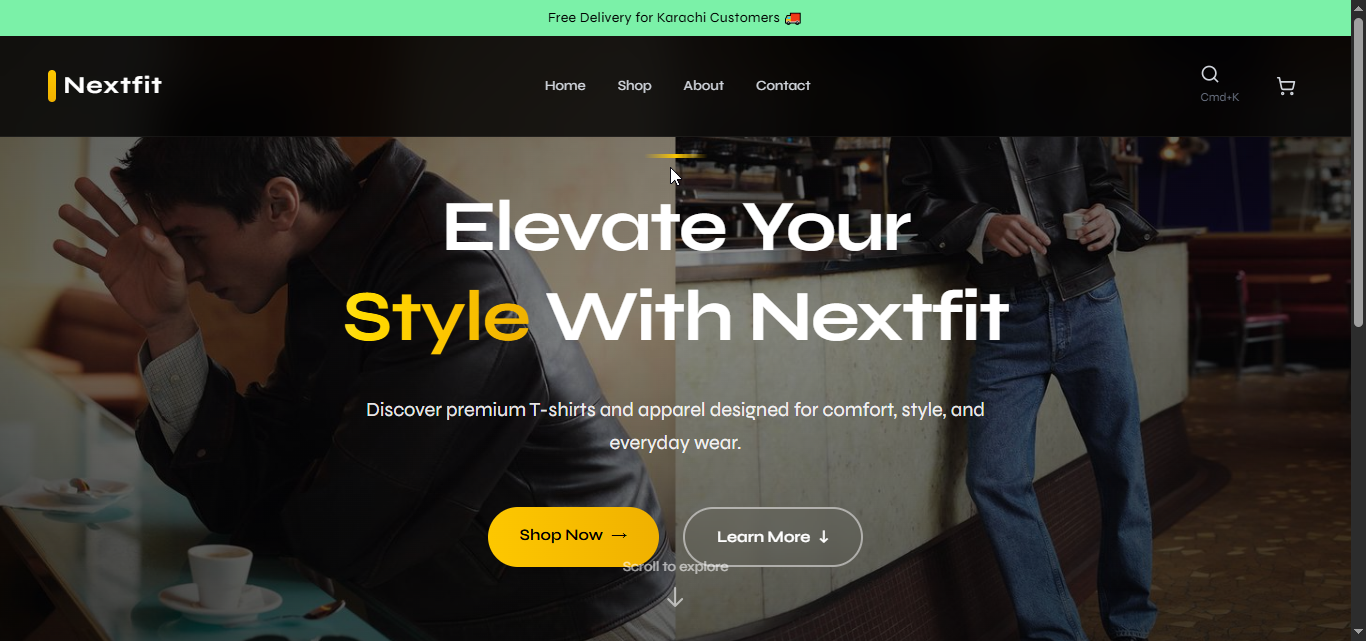
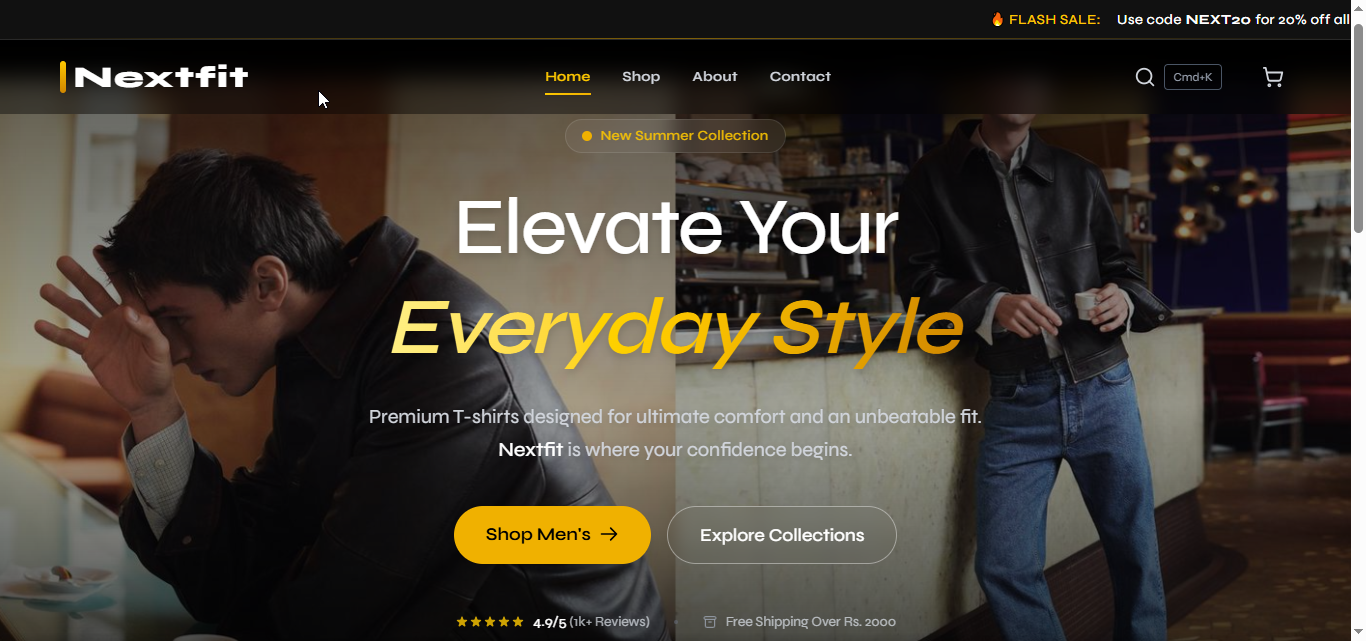
The added the new projects and make it smoth

diff --git a/client/src/pages/Projects.jsx b/client/src/pages/Projects.jsx
@@ -23,11 +23,24 @@ import Todo_Auth from "../assets/Todo_Auth.png";
 import Tshirt from "../assets/T-shirt_store.png";
 import ajrealestate from "../assets/ajrealestate.png";
 import GlobalComputer from "../assets/GlobalComputer.png";
+import LinkedIn_Clone from "../assets/LinkedIn_Clone.png";
 
 const projectsData = {
   fullstack: [
-    { title: "Real Estate Website (AJ)", desc: "A premium real estate platform for property listings.", link: "https://ajrealestate.pk/", image: ajrealestate, Github: false },
-    { title: "Nextfit E-Com", desc: "MERN Stack T-shirt store with admin dashboard.", link: "https://nextfit-seven.vercel.app/", image: Tshirt, Github: "https://github.com/Arbazali0347/Nextfit" },
+    {
+      title: "Real Estate Website (AJ)",
+      desc: "A premium real estate platform for property listings.",
+      link: "https://ajrealestate.pk/",
+      image: ajrealestate,
+      Github: false
+    },
+    {
+      title: "Nextfit E-Com",
+      desc: "MERN Stack T-shirt store with admin dashboard.",
+      link: "https://nextfit-seven.vercel.app/",
+      image: Tshirt,
+      Github: "https://github.com/Arbazali0347/Nextfit"
+    },
     { title: "SaaS BG Remover", desc: "Dynamic background remover with AI integration.", link: "https://bg-remover-saas-rt79.vercel.app/", image: SaaS, Github: "https://github.com/Arbazali0347/BG-remover-SAAS" },
     { title: "E-Commerce App", desc: "Full-featured MERN store with secure checkout.", link: "https://amchemical.store", image: ECom, Github: "https://github.com/Arbazali0347/AM-E-Commerce" },
     { title: "AI Blogging Platform", desc: "Modern blogging with AI-powered content tools.", link: "https://arbaz-blog-platfrom-38rn.vercel.app/", image: Blogging, Github: "https://github.com/Arbazali0347/Arbaz-blog-platfrom" },
@@ -42,11 +55,14 @@ const projectsData = {
   react: [
     { title: "Movie Searcher", desc: "React app fetching data from OMDB API.", link: "https://react-movie-searcher-eta.vercel.app/", image: MovieSearcher, Github: "https://github.com/Arbazali0347/React-Movie-Searcher" },
     { title: "React Gallery", desc: "Visual gallery with API-driven images.", link: "https://ract-gallary-app.vercel.app/", image: React_Gallary, Github: "https://github.com/Arbazali0347/Ract_Gallary_APP" },
+    { title: "React Todo List", desc: "The todo list maker with react.", link: "https://todo-app-using-react-lyart.vercel.app/", image: React_Todo, Github: "https://github.com/Arbazali0347/Todo-App-using-React" },
     { title: "Link Shortener", desc: "Clean UI for shortening long URLs.", link: "https://link-shortner-phi-lake.vercel.app/", image: React_LinkShortner, Github: "https://github.com/Arbazali0347/Link-Shortner" },
+    { title: "The Porfolio with react", desc: "The amazing portfolio using react with tailwind", link: "https://react-my-portfolio-chi.vercel.app/", image: React_PortFolio, Github: "https://github.com/Arbazali0347/React-My-Portfolio/" },
   ],
   tailwind: [
     { title: "Dark/Light UI", desc: "Seamless theme switching interface.", link: "https://dark-and-light-ruby.vercel.app/", image: Dark, Github: "https://github.com/Arbazali0347/Dark-and-Light" },
     { title: "About UI Design", desc: "Modern About page with Glassmorphism.", link: "https://my-project-tailwind.vercel.app/", image: MyAbout, Github: "https://github.com/Arbazali0347/My-About-Project" },
+    { title: "LinkedIn Login page clone", desc: "The Same design of LinkedIn in Login page.", link: false, image: LinkedIn_Clone, Github: false },
   ],
   node: [
     { title: "Profile Auth App", desc: "Secure Node.js authentication system.", link: false, image: NodeProfile, Github: "https://github.com/Arbazali0347/Profile-Auth-Node-Express" },
@@ -55,6 +71,27 @@ const projectsData = {
   css: [
     { title: "Saqlain Clone", desc: "Pixel perfect UI clone of a portfolio.", link: "https://arbazali0347.github.io/Saqlain-website-clone/", image: Saqlain_Website_Clone, Github: "https://github.com/Arbazali0347/Saqlain-website-clone" },
     { title: "Uncrypt Messenger", desc: "Modern chat interface layout.", link: "https://arbazali0347.github.io/Text-Messanger/", image: JavaScript_messanger, Github: "https://github.com/Arbazali0347/Text-Messanger/" },
+    {
+      title: "Static E-commerce design",
+      desc: "The Amazing E-commerce design using with HTML_CSS.",
+      link: "https://arbazali0347.github.io/E-commerce-HTML-CSS/",
+      image: HTML_CSS_Ecom,
+      Github: "https://github.com/Arbazali0347/E-commerce-HTML-CSS/"
+    },
+    {
+      title: "The first Portfolio",
+      desc: "The first portfolio design using with HTML_CSS.",
+      link: "https://arbazali0347.github.io/HTML_CSS_Portfolio/",
+      image: HTML_CSS_Portfolio,
+      Github: "https://github.com/Arbazali0347/HTML_CSS_Portfolio"
+    },
+    {
+      title: "The white theme portfolio",
+      desc: "The white theme portfolio design using with HTML_CSS.",
+      link: "https://arbazali0347.github.io/Arbazali-HTML-Portfolio/",
+      image: HTML_Portfolio,
+      Github: "https://github.com/Arbazali0347/Arbazali-HTML-Portfolio/"
+    },
   ],
 };
 

diff --git a/client/src/components/Backdrop.jsx b/client/src/components/Backdrop.jsx
@@ -6,9 +6,6 @@ const Backdrop = () => {
     // Fixed background that stays behind everything (-z-50)
     <div className="fixed inset-0 w-full h-full -z-50 bg-[#050505] overflow-hidden pointer-events-none">
       
-      {/* Subtle Modern Grid Pattern */}
-      <div className="absolute inset-0 bg-[linear-gradient(to_right,#ffffff08_1px,transparent_1px),linear-gradient(to_bottom,#ffffff08_1px,transparent_1px)] bg-[size:32px_32px] [mask-image:radial-gradient(ellipse_80%_60%_at_50%_0%,#000_70%,transparent_100%)]"></div>
-
       {/* Animated Glowing Orb 1 (Top Left - Blue) */}
       <motion.div
         animate={{

diff --git a/client/src/components/Header.jsx b/client/src/components/Header.jsx
@@ -93,7 +93,7 @@ const Header = () => {
               </div>
               <div className="w-[1px] h-10 bg-white/10"></div>
               <div className="flex flex-col">
-                <span className="text-white text-2xl lg:text-3xl font-bold">15+</span>
+                <span className="text-white text-2xl lg:text-3xl font-bold">20+</span>
                 <span className="tracking-wider uppercase text-[10px] mt-1">Projects</span>
               </div>
             </div>
